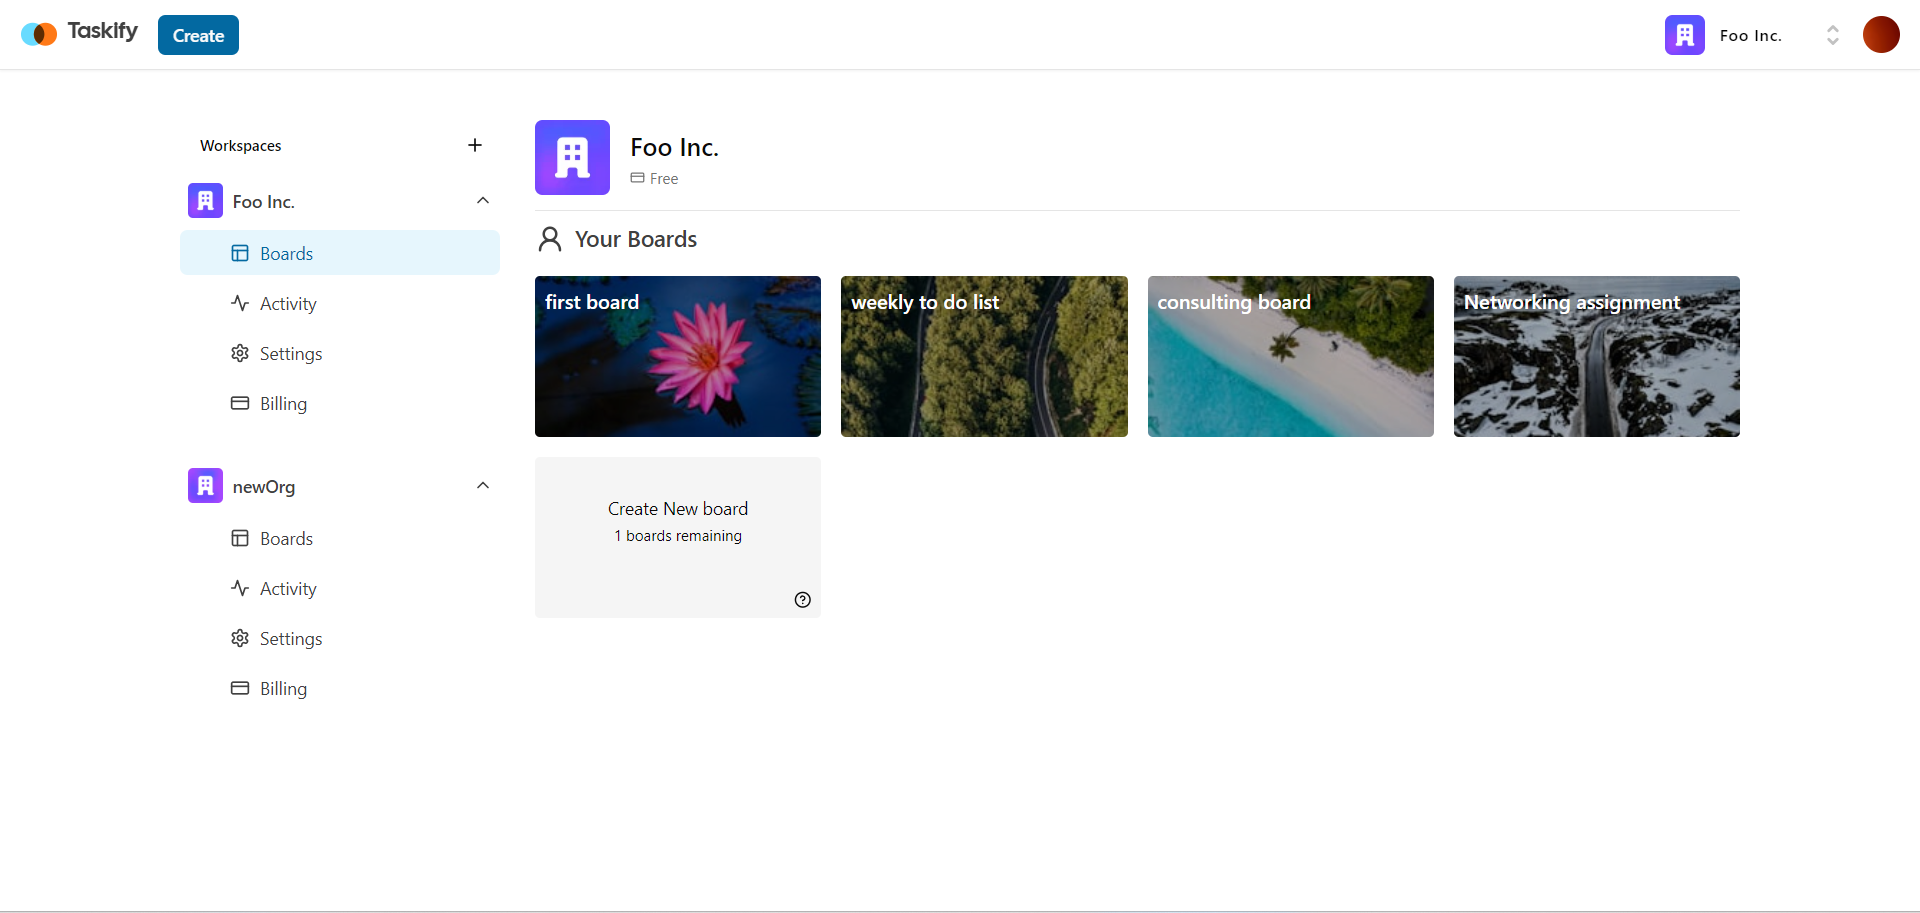
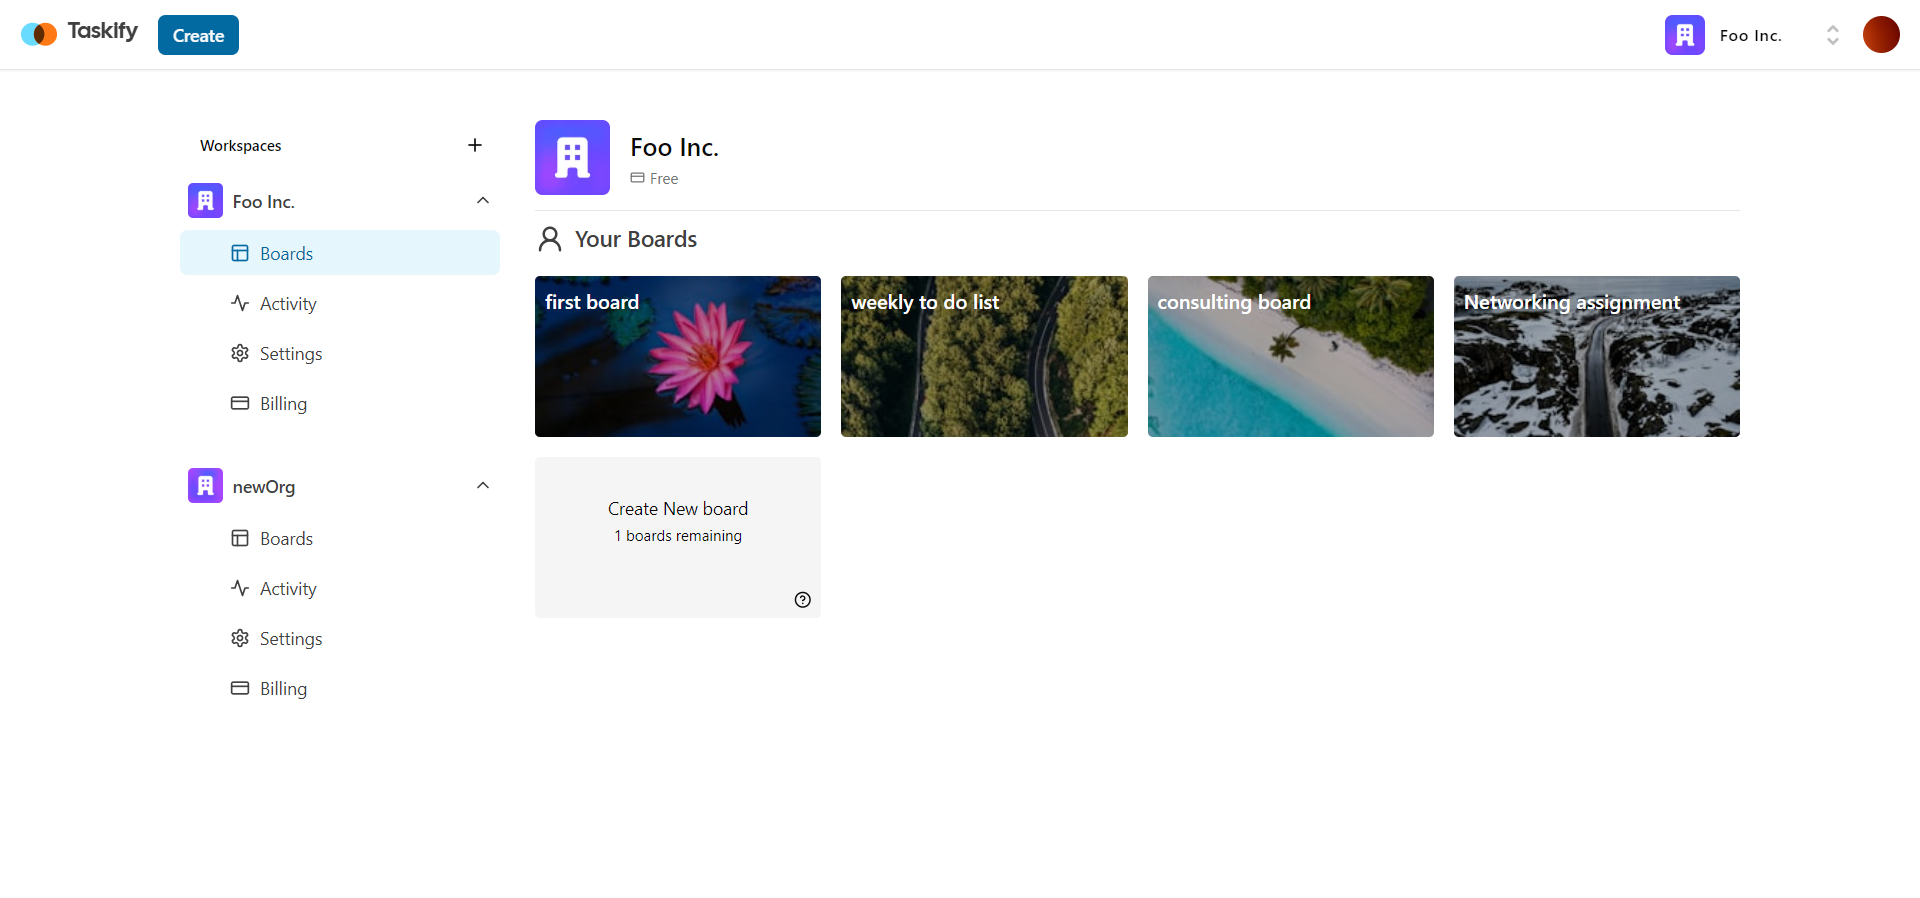
projects page completed

diff --git a/src/components/reusable/ProjectCard.tsx b/src/components/reusable/ProjectCard.tsx
@@ -1,0 +1,58 @@
+"use client";
+import { ProjectItem } from "@/types";
+import ImagesSlider from "./ImagesSlider";
+import Image from "next/image";
+import { FaGithub } from "react-icons/fa";
+import { FaExternalLinkAlt } from "react-icons/fa";
+import { motion } from "framer-motion";
+
+interface ProjectCardProps {
+  project: ProjectItem;
+}
+
+const ProjectCard = ({ project }: ProjectCardProps) => {
+  return (
+    <motion.div
+      initial={{ y: 80 }}
+      whileInView={{ y: 0 }}
+      transition={{
+        type: "spring",
+        duration: 0.4,
+      }}
+      className="w-full overflow-hidden rounded-lg border border-yellow-300 shadow-md transition-shadow duration-150 hover:shadow-md"
+    >
+      <ImagesSlider images={project.images} />
+      <div className="p-3 flex items-center gap-2 text-gray-800 min-sm:p-4">
+        <span className="relative h-5 w-5">
+          <Image src={project.favicon} alt="logo" width={20} height={20} />
+        </span>
+        <span className="text-sm font-semibold">{project.title}</span>
+      </div>
+      <div className="px-3">
+        <p className="text-xs text-gray-600 min-md:text-sm">
+          {project.description}
+        </p>
+      </div>
+      <div className="py-2 px-3 flex items-center justify-end gap-6">
+        <a
+          href={project.githubLink}
+          target="_blank"
+          className="flex items-center gap-1 text-xs text-gray-500 hover:text-gray-800 transition-colors duration-100 underline min-md:text-sm"
+        >
+          <FaGithub className="size-5" /> Source Code
+        </a>
+        {project.deploymentLink && (
+          <a
+            href={project.deploymentLink}
+            target="_blank"
+            className="flex items-center gap-1 text-xs text-gray-500 hover:text-gray-800 transition-colors duration-100 underline min-md:text-sm"
+          >
+            <FaExternalLinkAlt className="size-5" /> Live
+          </a>
+        )}
+      </div>
+    </motion.div>
+  );
+};
+
+export default ProjectCard;

diff --git a/src/assets/projectsData.ts b/src/assets/projectsData.ts
@@ -54,7 +54,7 @@ export const projectData = [
     title: "Dev overflow",
     description:
       "A community platform asking and answering programming questions.Get help,share knowledge and collaborate with developers all around the world. Explore topics in web development ,data structures etc.",
-    favicon: "/projects/dev_overflow_favicon.png",
+    favicon: "/projects/dev-overflow-favicon.png",
     githubLink: "https://github.com/Gautam5558/dev_overflow",
     deploymentLink: "https://dev-overflow-iota-six.vercel.app/",
     images: [
@@ -68,7 +68,7 @@ export const projectData = [
     id: 2,
     title: "Taskify",
     description:
-      "Collaborate, manage projects and reach new productivity peaks",
+      " Taskify is a web app designed for efficient task management and collaboration within teams. It provides a user-friendly UI for organizing tasks into customizable boards, lists, and cards, allowing teams to effectively track their projects from start to finish.",
     favicon: "/projects/taskify-favicon.png",
     githubLink: "https://github.com/Gautam5558/taskify",
     deploymentLink: "https://taskify-coral-zeta.vercel.app/",
@@ -80,12 +80,18 @@ export const projectData = [
     ],
   },
   {
-    id: 1,
+    id: 3,
     title: "Homyz",
-    description: "",
+    description:
+      "A real estate application for both dealers and buyers to make bookings for visiting a property. It offers a seamless user experience with beautiful UI design, powered by various technologies and libraries such as JWT authentication, Tanstack Query for efficient data fetching etc.",
     favicon: "",
-    githubLink: "",
-    deploymentLink: "",
-    images: ["", ""],
+    githubLink: "https://github.com/Gautam5558/real_estate_app",
+    deploymentLink: "https://real-estate-app-client.vercel.app/",
+    images: [
+      "/projects/homyz.png",
+      "/projects/homyz-residencies.png",
+      "/projects/homyz-booking.png",
+      "/projects/homyz-search.png",
+    ],
   },
 ];

diff --git a/src/components/reusable/ImagesSlider.tsx b/src/components/reusable/ImagesSlider.tsx
@@ -1,0 +1,51 @@
+"use client";
+import { useState } from "react";
+import { IoCaretBackOutline, IoCaretForwardOutline } from "react-icons/io5";
+
+interface ImagesSliderProps {
+  images: string[];
+}
+
+const ImagesSlider = ({ images }: ImagesSliderProps) => {
+  const [currentImage, setCurrentImage] = useState(0);
+  const [isAnimating, setIsAnimating] = useState(false);
+
+  const handleClick = (type: string) => {
+    if (isAnimating) return; // Prevent multiple clicks during animation
+    setIsAnimating(true);
+    setTimeout(() => setIsAnimating(false), 300); // Match animation duration
+
+    if (type === "next") {
+      setCurrentImage((prev) => (prev === images.length - 1 ? 0 : prev + 1));
+    } else {
+      setCurrentImage((prev) => (prev === 0 ? images.length - 1 : prev - 1));
+    }
+  };
+
+  return (
+    <div className="relative w-full h-[300px]">
+      <div className="relative w-full h-full">
+        {images.map((image, index) => (
+          <img
+            key={index}
+            src={image}
+            alt={`project-image-${index}`}
+            className={`absolute w-full h-full object-cover transition-opacity duration-300 ease-linear ${
+              currentImage === index ? "opacity-100" : "opacity-0"
+            }`}
+          />
+        ))}
+      </div>
+      <div className="absolute left-1/2 -translate-x-1/2 bottom-[20px] flex space-x-4">
+        <button onClick={() => handleClick("prev")}>
+          <IoCaretBackOutline className="size-6 text-red-400 hover:text-red-500" />
+        </button>
+        <button onClick={() => handleClick("next")}>
+          <IoCaretForwardOutline className="size-6 text-red-400 hover:text-red-500" />
+        </button>
+      </div>
+    </div>
+  );
+};
+
+export default ImagesSlider;

diff --git a/src/app/projects/page.tsx b/src/app/projects/page.tsx
@@ -1,5 +1,27 @@
+"use client";
+import { projectData } from "@/assets/projectsData";
+import ProjectCard from "@/components/reusable/ProjectCard";
+
 const ProjectsPage = () => {
-  return <div>P</div>;
+  return (
+    <section className="mx-auto mb-40 mt-6 w-full gap-20 px-6 min-sm:mt-12 min-sm:px-14 min-md:px-20">
+      <div className="mx-auto max-w-7xl">
+        <h1 className="text-2xl font-semibold text-gray-700 min-md:tsxt-4xl">
+          Projects
+        </h1>
+        <div className="my-2">
+          <span className="text-sm text-gray-600 font-medium">
+            Here are some of the projects I&apos;d like to share
+          </span>
+        </div>
+        <div className="mt-8 grid grid-cols-1 gap-x-6 gap-y-10 min-lg:grid-cols-2">
+          {projectData.map((project) => {
+            return <ProjectCard key={project.id} project={project} />;
+          })}
+        </div>
+      </div>
+    </section>
+  );
 };
 
 export default ProjectsPage;

diff --git a/src/types/index.ts b/src/types/index.ts
@@ -5,3 +5,13 @@ export interface projectShowcaseListItemType {
   image: string;
   href: string;
 }
+
+export interface ProjectItem {
+  id: number;
+  title: string;
+  description: string;
+  githubLink: string;
+  deploymentLink: string;
+  favicon: string;
+  images: string[];
+}
